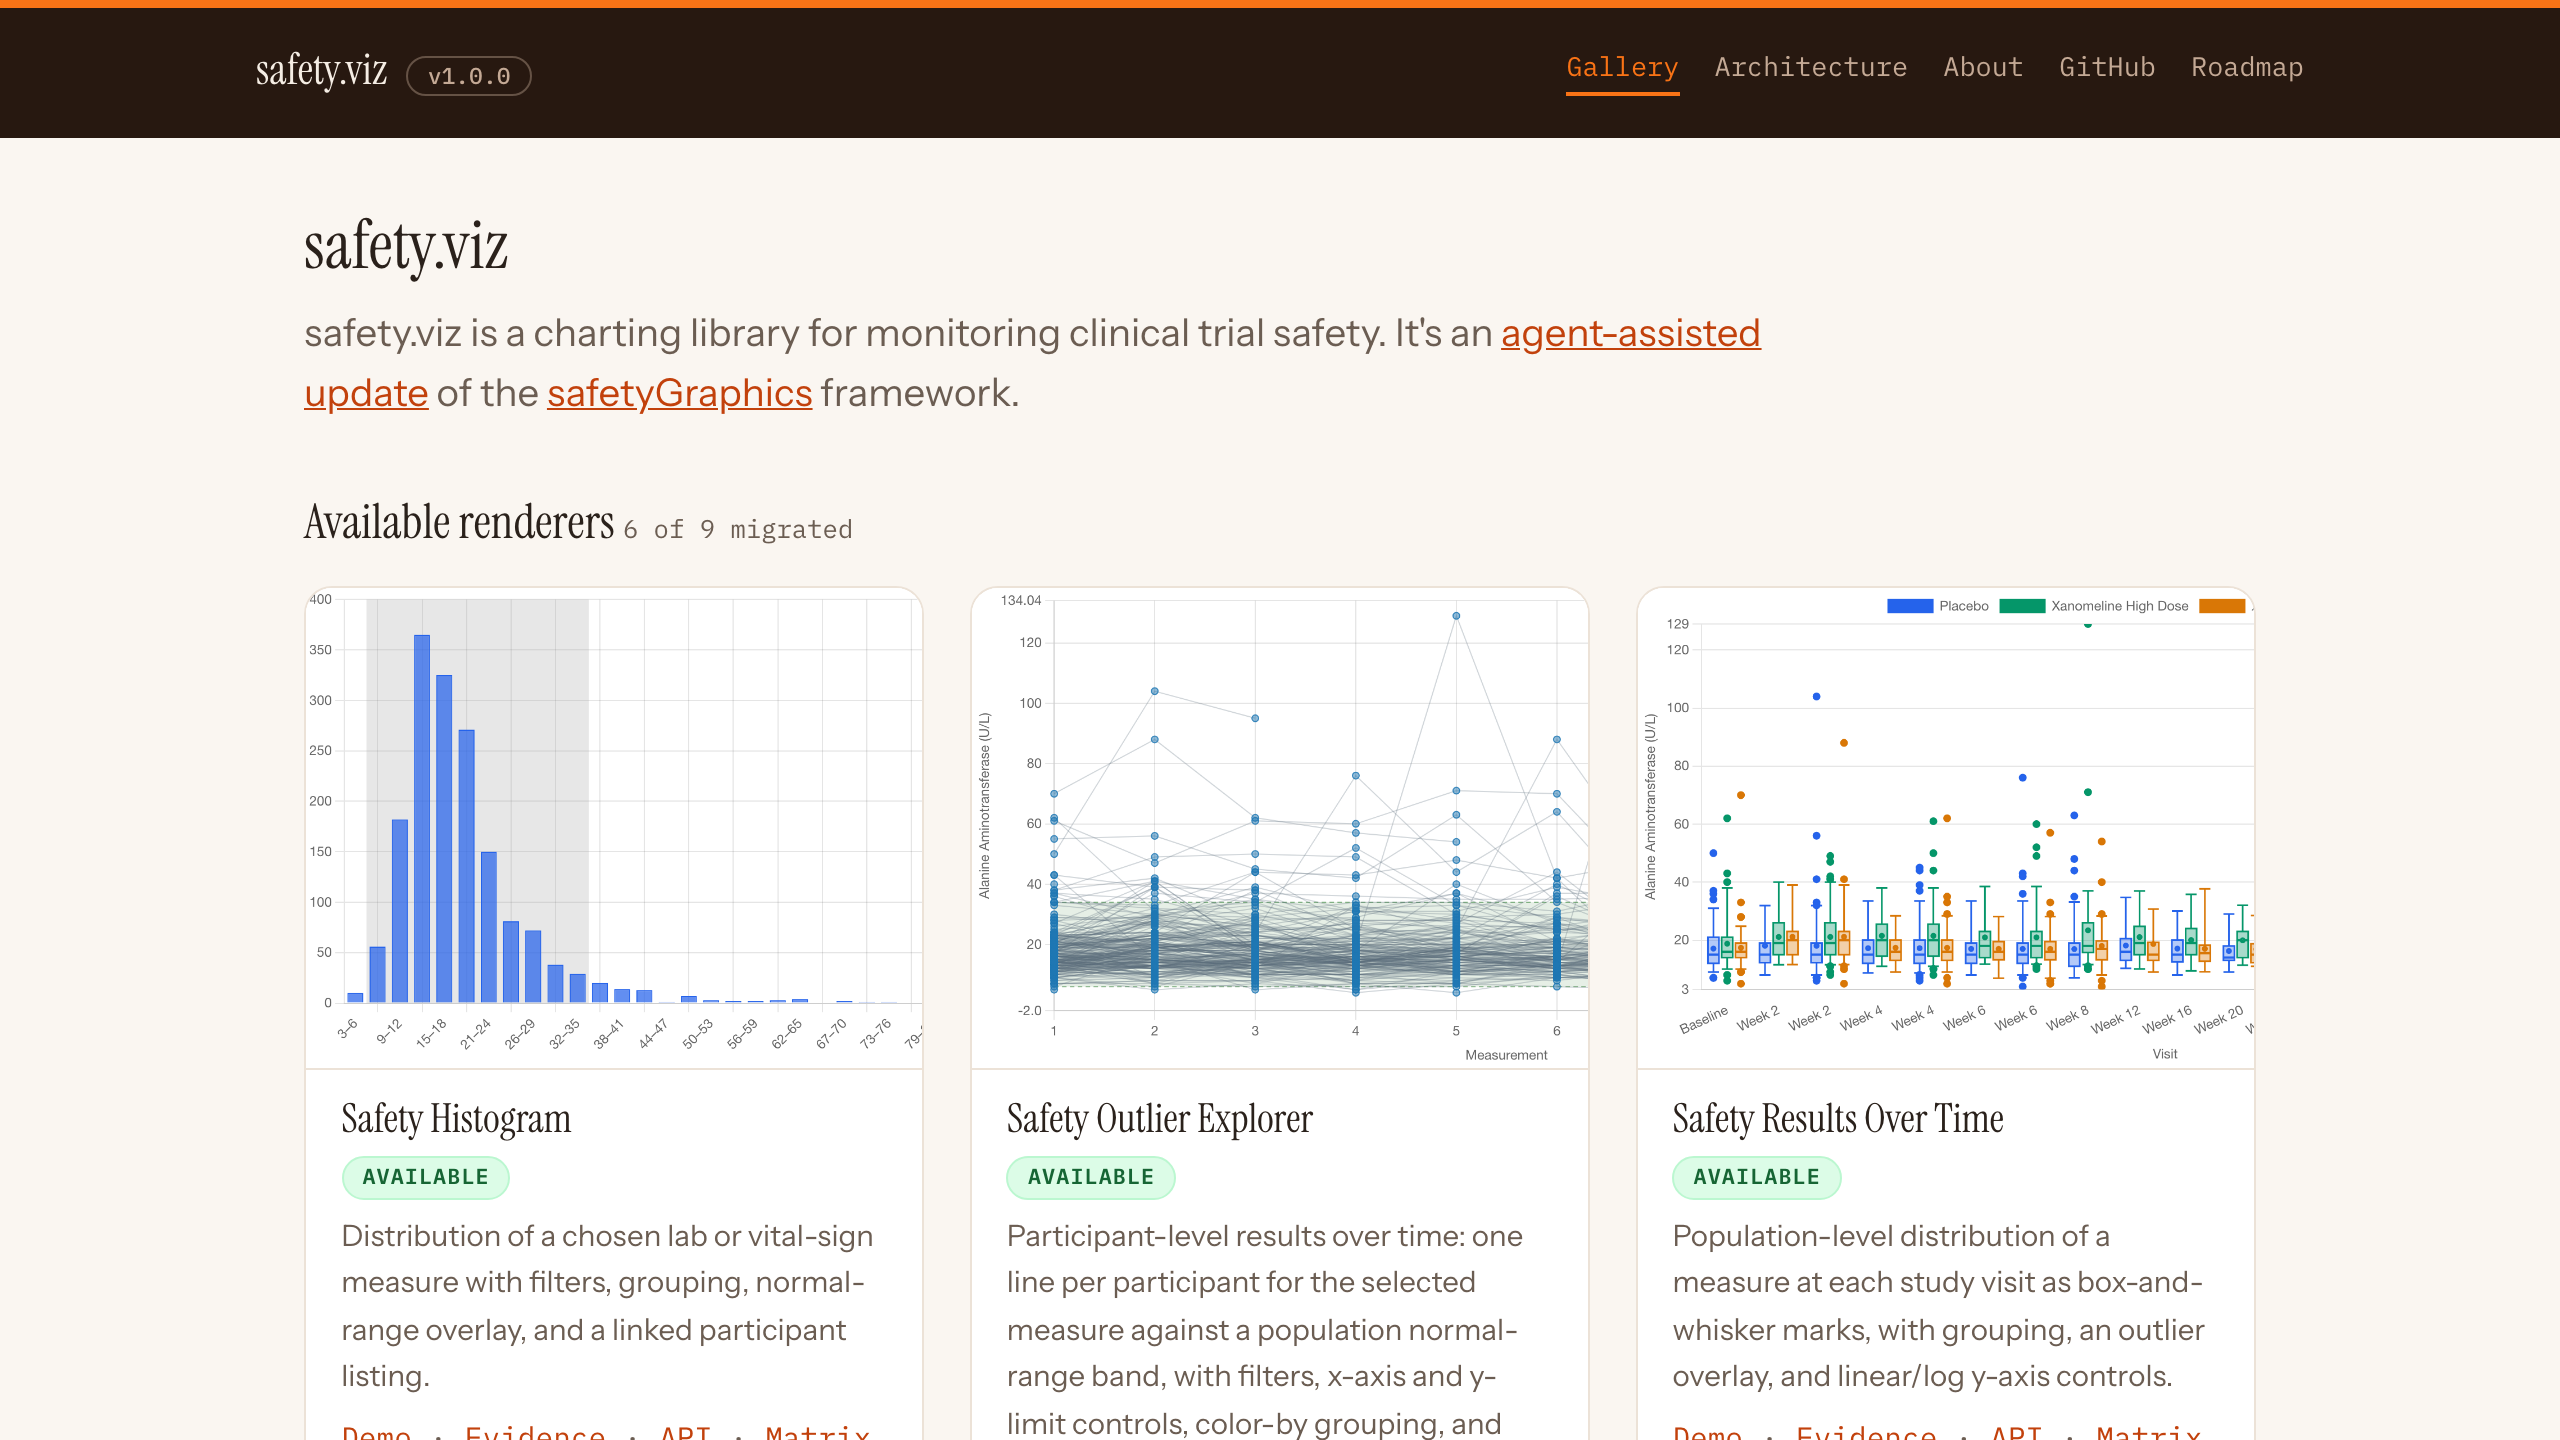
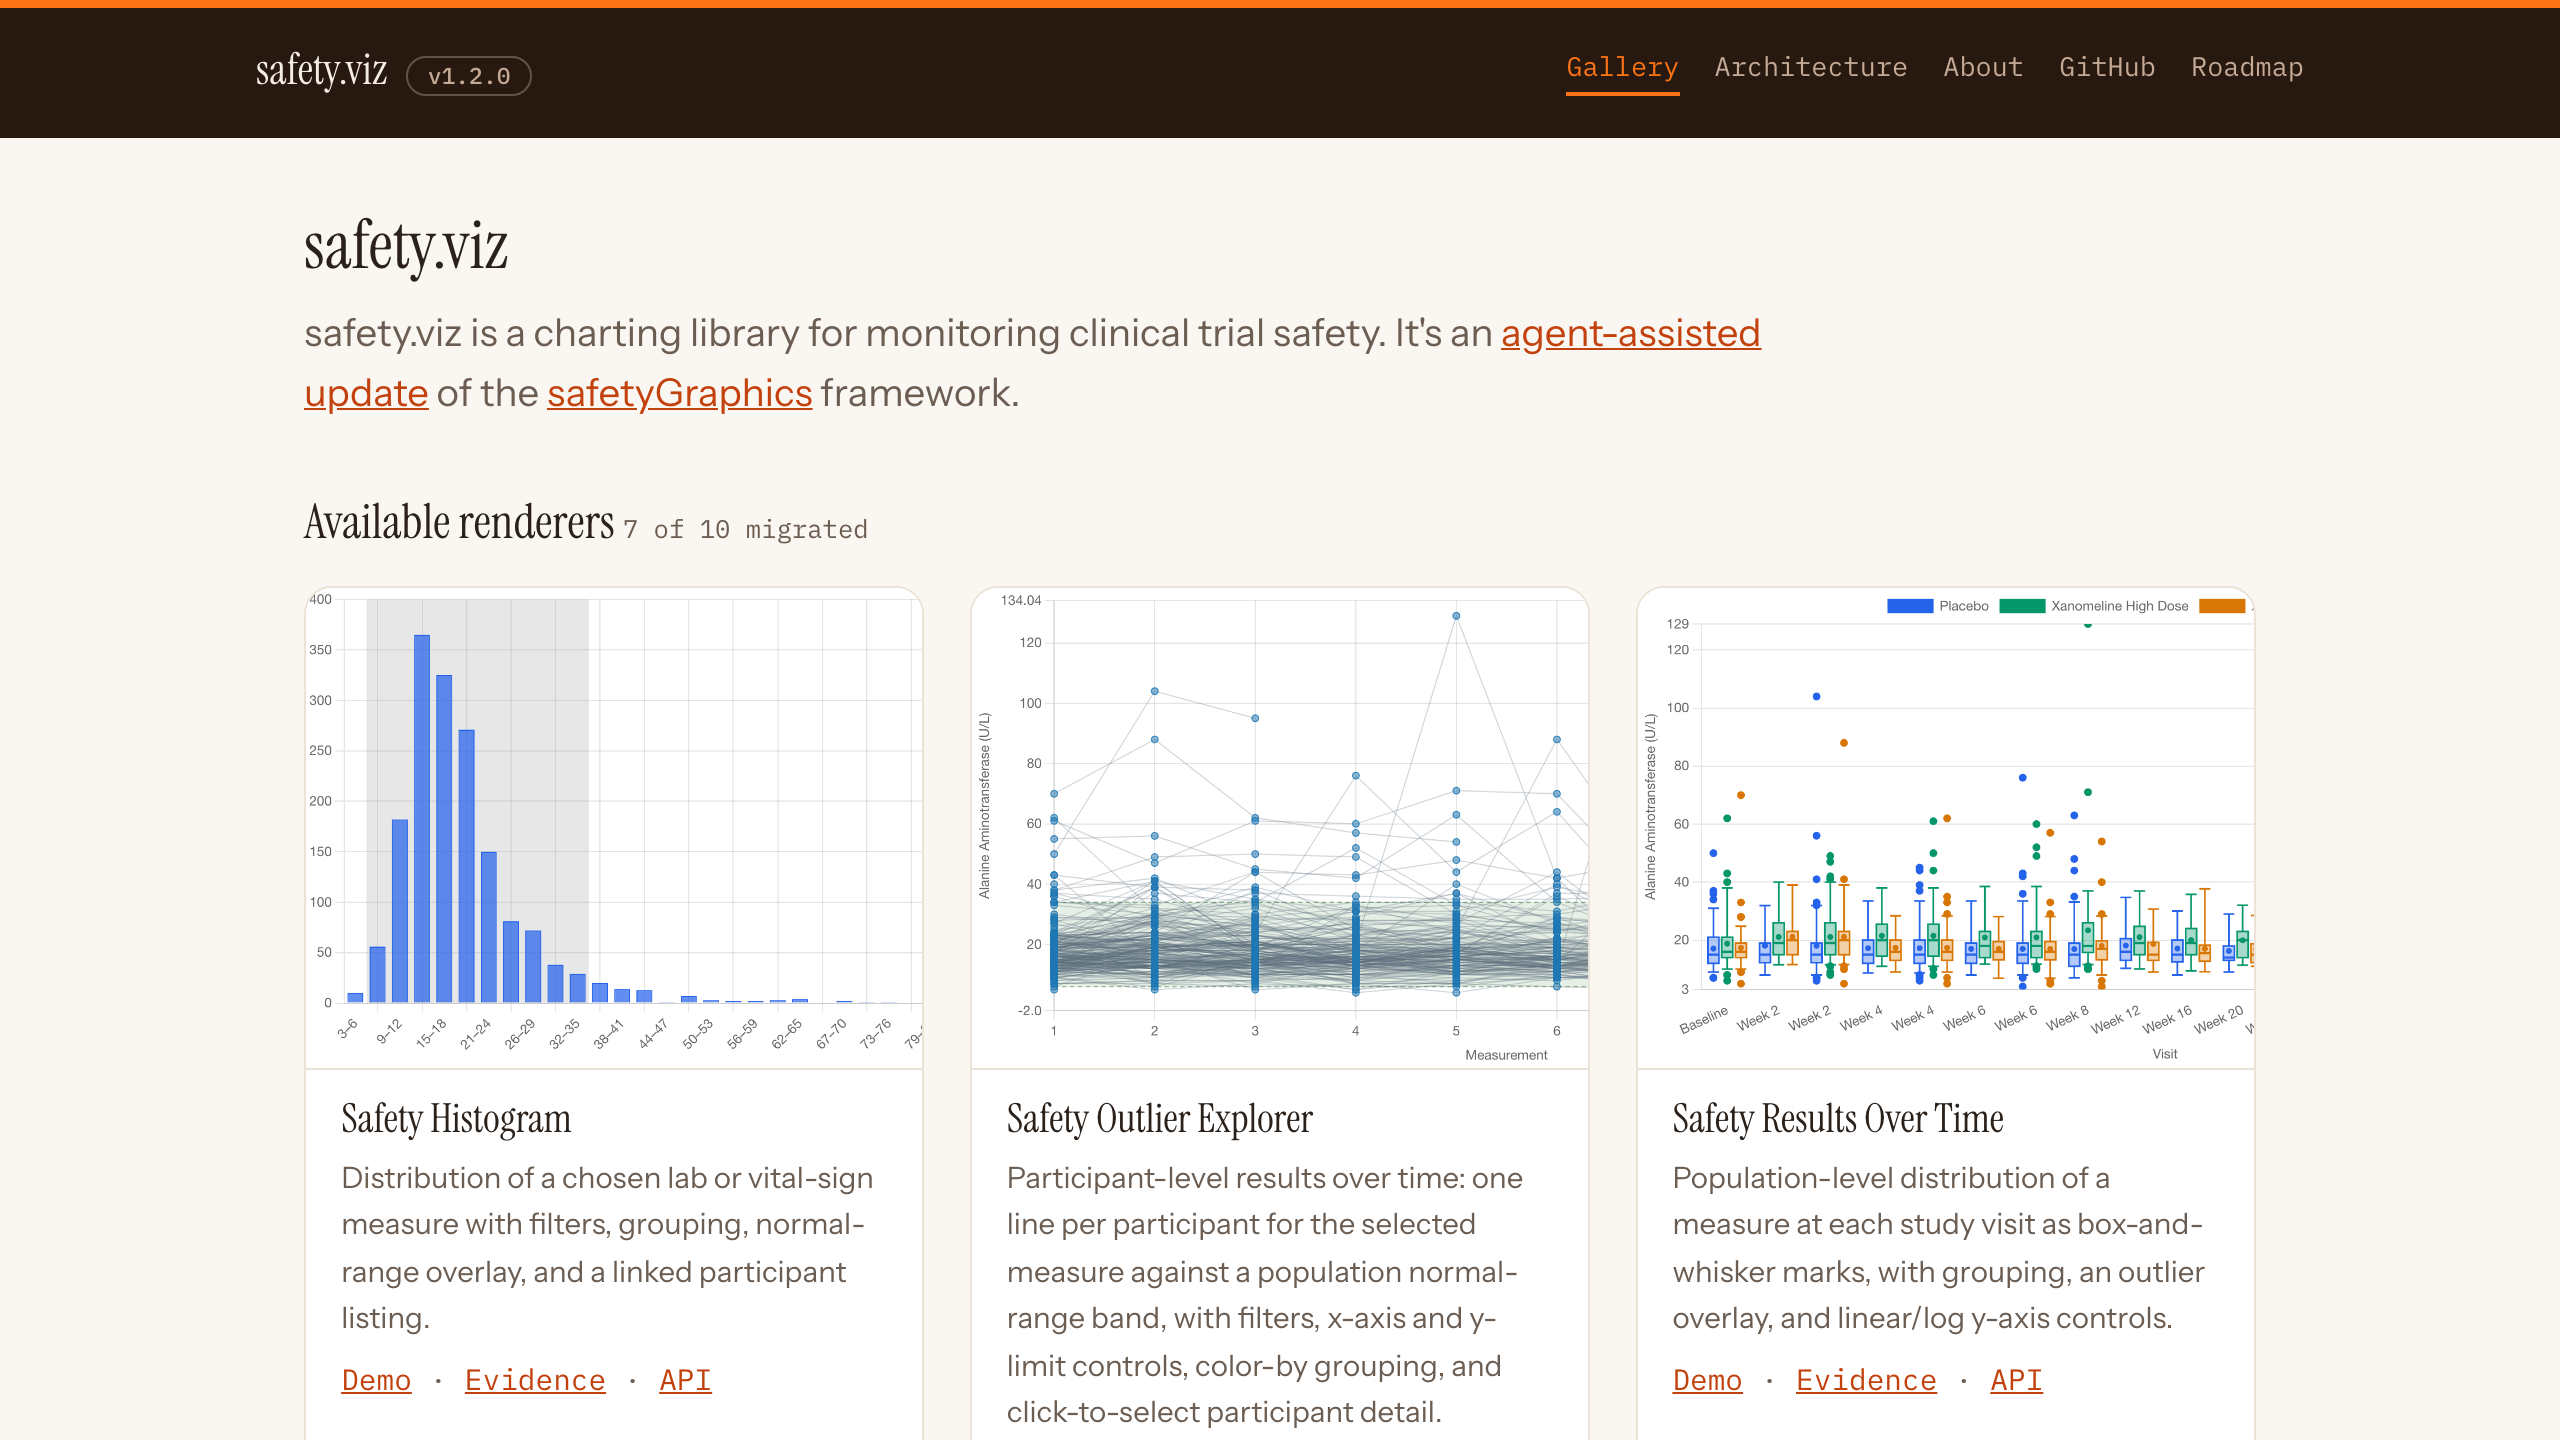
Publish R/Pharma Diary #5 — Introducing safety.viz; update keynote page
Post dated 2026-07-12 (v1.2.0 live: hep-explorer page + clinical guide verified
200, gallery badge 7 of 10). Gallery screenshot retaken post-v1.2.0-deploy.
Keynote: part 5 published card added, upcoming card now part 6 (Obot v3).

diff --git a/keynote/index.html b/keynote/index.html
@@ -110,13 +110,20 @@
     <main class="feed" id="diary">
       <div class="feed-head">
         <h2>Developer diary</h2>
-        <span class="count">4 entries · more before October</span>
+        <span class="count">5 entries · more before October</span>
       </div>
 
       <article class="card upcoming">
-        <p class="date">Coming soon · Part 5</p>
-        <h3>Introducing {gsm.safety}</h3>
-        <p class="excerpt">Into the technical details: a first look at {gsm.safety}, the new home for safetyGraphics charts in the gsm ecosystem.</p>
+        <p class="date">Coming soon · Part 6</p>
+        <h3>Obot v3</h3>
+        <p class="excerpt">How the workshop got rebuilt: from the OpenClaw Obot experiment to a Claude Code scaffold built around a public roadmap (obot.roadmap) and an agent playbook (obot.agent).</p>
+      </article>
+
+      <article class="card">
+        <p class="date">July 12, 2026 · Part 5</p>
+        <h3><a href="/2026/07/12/introducing-safety-viz.html">Introducing safety.viz</a></h3>
+        <p class="excerpt">safety.viz v1.0 modernizes 7 interactive safetyGraphics renderers. The first renderer took a few weeks; the next six took a weekend.</p>
+        <p class="links"><a href="/2026/07/12/introducing-safety-viz.html">Read entry →</a></p>
       </article>
 
       <article class="card">

diff --git a/_posts/2026-07-12-introducing-safety-viz.md b/_posts/2026-07-12-introducing-safety-viz.md
@@ -5,8 +5,8 @@ excerpt: "safety.viz v1.0 modernizes 7 interactive safetyGraphics renderers. The
 tags: RPharma AI ClinicalTrials SafetyGraphics SafetyViz DeveloperDiary
 series: "R/Pharma 2026 developer diary"
 series_part: 5
+date: "2026-07-12"
 ---
-{% comment %} date: set on publish — this is the first of the reordered posts (5: safety.viz, 6: obot-claw → Claude Code transition, 7: obot.agent case study) {% endcomment %}
 
 [My last post]({% post_url 2026-07-02-safetygraphics-heart-gsm %}) laid out the plan for `{safetyGraphics}` v2 and ended on the obvious question: *can we actually do this?* Here's the first big answer: [**safety.viz is live**](https://jwildfire.github.io/safety.viz/).[^ai]
 
@@ -30,13 +30,11 @@ As of now, 7 of the core `{safetyGraphics}` charts are live:
 | **[Adverse Event Timelines](https://jwildfire.github.io/safety.viz/ae-timelines/index.html)** | Each participant's AEs as timelines colored by severity, serious events marked, with click-through detail |
 | **[Hep Explorer (eDISH)](https://jwildfire.github.io/safety.viz/hep-explorer/index.html)** | Peak ALT vs. peak bilirubin on Hy's-Law quadrants for drug-induced liver injury — click a participant for a coordinated drill-down: labs over time, visit path, and linked listing |
 
-{% comment %} PUBLISH-GATE NOTES: (1) the hep-explorer chart + clinical-guide links point at main-site URLs that go live when the v1.2.0 site deploys (PR #44 merged to dev 07-12 ~8:17 pm ET; both paths verified against the dev-branch site generator). (2) Retake the gallery screenshot after that deploy — the current capture shows the v1.1.0 badge and "6 of 9 migrated"; post-deploy it reads "7 of 10", matching the prose. (3) Confirm the v1.2.0 timestamp in the Development Process timeline once the release is actually cut. {% endcomment %}
-
-Point any of its seven interactive charts at your study data and review it in the browser: filter, group, zoom, and click through from a pattern on the screen to the participant records behind it. These are currently javascript only (usage instructions are [here](https://github.com/jwildfire/safety.viz#using-it)), but the `{gsm.safety}` R package should be done soon. Will share a follow-up post when it's live.
+Point any of its seven interactive charts at your study data and review it in the browser: filter, group, zoom, and click through from a pattern on the screen to the participant records behind it. These are currently JavaScript only (usage instructions are [here](https://github.com/jwildfire/safety.viz#using-it)), but the `{gsm.safety}` R package should be done soon. Will share a follow-up post when it's live.
 
 ## Quality Framework
 
-The most frequently asked question about safetyGraphics has always been: "Is it validated? Can I use it on actual studies?" The original answer was, "Not really. It's exploratory". `safety.viz` comes with a robust audit trail and extensive test evidence that is laying the foundation for GxP usage. Every chart traces to a reviewed requirement matrix from the original renderer's documentation, with 249 unit tests and 94 browser tests keyed to requirement IDs and published as [audit-style evidence reports](https://jwildfire.github.io/safety.viz/histogram/evidence.html). 
+The most frequently asked question about `{safetyGraphics}` has always been: "Is it validated? Can I use it on actual studies?" The original answer was, "Not really. It's exploratory". `safety.viz` comes with a robust audit trail and extensive test evidence that is laying the foundation for GxP usage. Every chart traces to a reviewed requirement matrix from the original renderer's documentation, with 249 unit tests and 94 browser tests keyed to requirement IDs and published as [audit-style evidence reports](https://jwildfire.github.io/safety.viz/histogram/evidence.html).
 
 [![The Safety Histogram test-evidence report — requirement-traced, all passing, with CI provenance](/assets/img/safety-viz-evidence.png)](https://jwildfire.github.io/safety.viz/histogram/evidence.html)
 
@@ -44,13 +42,15 @@ The most frequently asked question about safetyGraphics has always been: "Is it 
 
 The next few posts will share lots more details about how I built this, but here's a preview:
 
-- **v0.1.0** (Jul 11, 8 am) — The first prototype was the heavy lift — I spent multiple sessions across a few weeks updating `safety-histogram`. I spent time reviewing the original charts, including the VERY helpful [requirement documents we had saved in the wikis](https://github.com/RhoInc/safety-histogram/wiki). Made lots of decisions about packages and test frameworks and then spent several sessions updating the website so that the example pages looked nice and clean and there was solid, transparent test evidence. 
-- **v1.0.0** (Jul 11, 10:30 pm) — With the structure in place, things sped up A LOT. v1.0.0 added 5 renderers and came out later that same day.
+- **v0.1.0** (Jul 11, 8 am) — The first prototype was the heavy lift — I spent multiple sessions across a few weeks updating `safety-histogram`. I spent time reviewing the original charts, including the helpful [requirement documents we had saved in the wikis](https://github.com/RhoInc/safety-histogram/wiki). Made lots of decisions about packages and test frameworks and then spent several sessions updating the website so that the example pages looked nice and clean and there was solid, transparent test evidence.
+- **v1.0.0** (Jul 11, 10:30 pm) — The structure from v0.1 unlocked agentic development in a meaningful way — v1.0.0 added 5 renderers in one session. The release came out later that same day.
 - **v1.1.0** (Jul 11, 11:50 pm) — The next release took about an hour. It updated all of the examples to use data from `{pharmaverseadam}`, added a paneled all-measures view to the histogram, and updated the README.
 - **v1.2.0** (Jul 12, 10 pm) — One day later, one of the most complex `{safetyGraphics}` renderers, `hep-explorer`, went live in `safety.viz`! AND it ported the incredibly robust [clinical guide](https://jwildfire.github.io/safety.viz/hep-explorer/guide.html) from PDF to HTML as part of the chart documentation.
 
-The obvious question after a weekend like that is *how*? The next post starts that story with a tour of the new workshop — the move from the Obot experiment of [diary #2]({% post_url 2026-06-12-setting-up-obot-openclaw %}) to a Claude Code scaffold built around a public roadmap and an agent playbook.
+The obvious question after a weekend like that is *how*[^how]? The next post describes how I moved from the OpenClaw Obot experiment of [diary #2]({% post_url 2026-06-12-setting-up-obot-openclaw %}) to Obot v3 — a Claude Code scaffold built around a public roadmap and an agent playbook.
 
 [^ai]: **AI collaboration note** — this post was drafted by Claude Code (using Fable 5) from the `safety.viz` release notes and the project roadmap records; @jwildfire did a major re-write, and Claude did a final cleanup pass before publication.
+
+[^how]: I promise the answer isn't "work all weekend". I watched 2 World Cup games and played with the kids, too!
 
 [^modern]: What does "modernize" mean here? The original renderers were built on 2015-era Webcharts and D3 v3. safety.viz rebuilds each one on Chart.js in modern JavaScript, with JSON-Schema data contracts, requirement-keyed automated tests, and published evidence reports.
